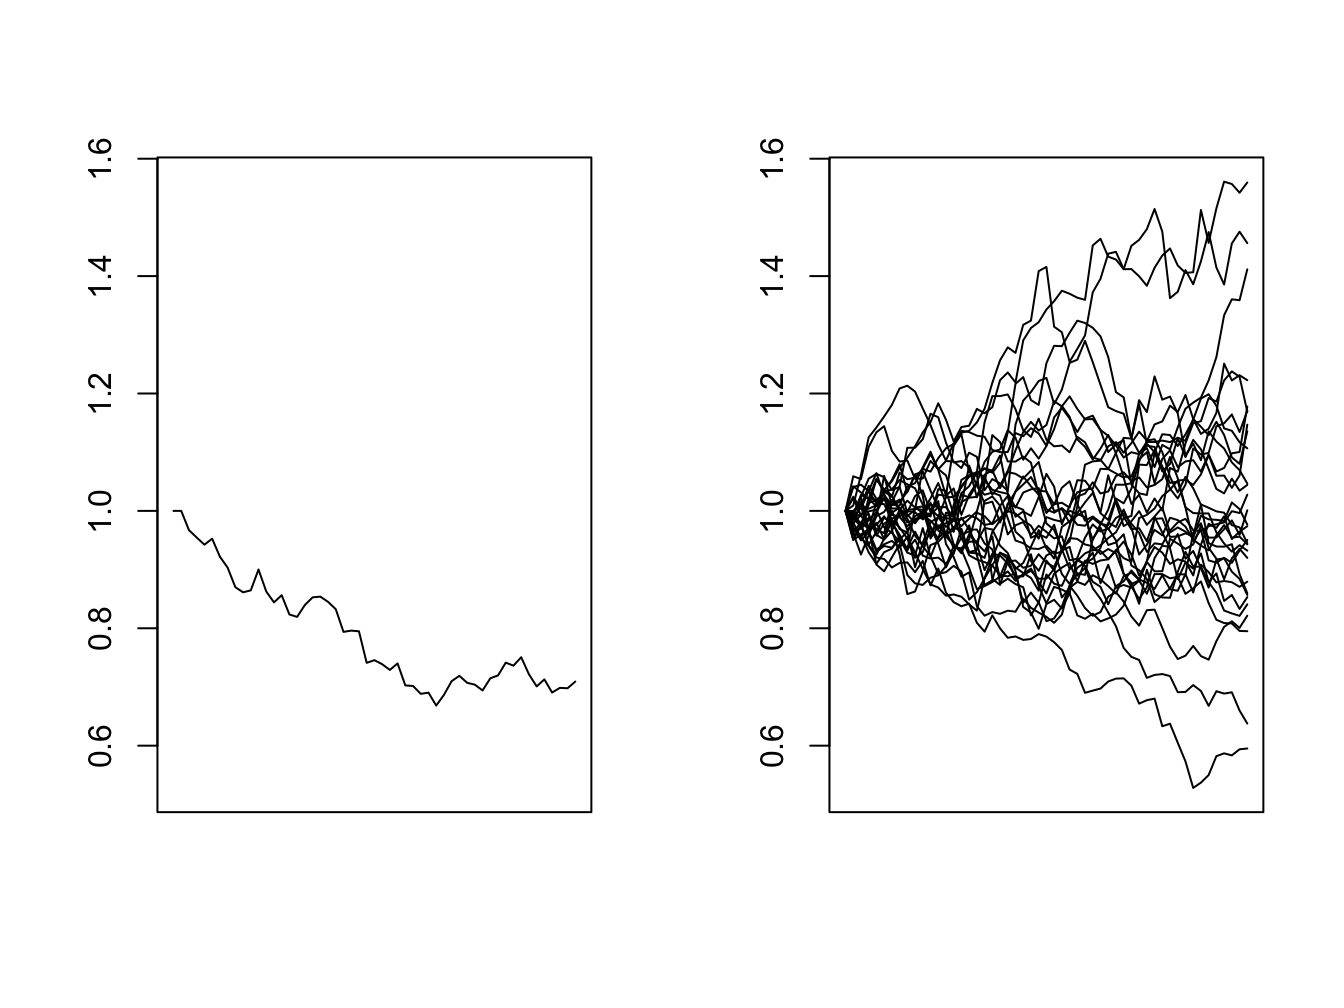
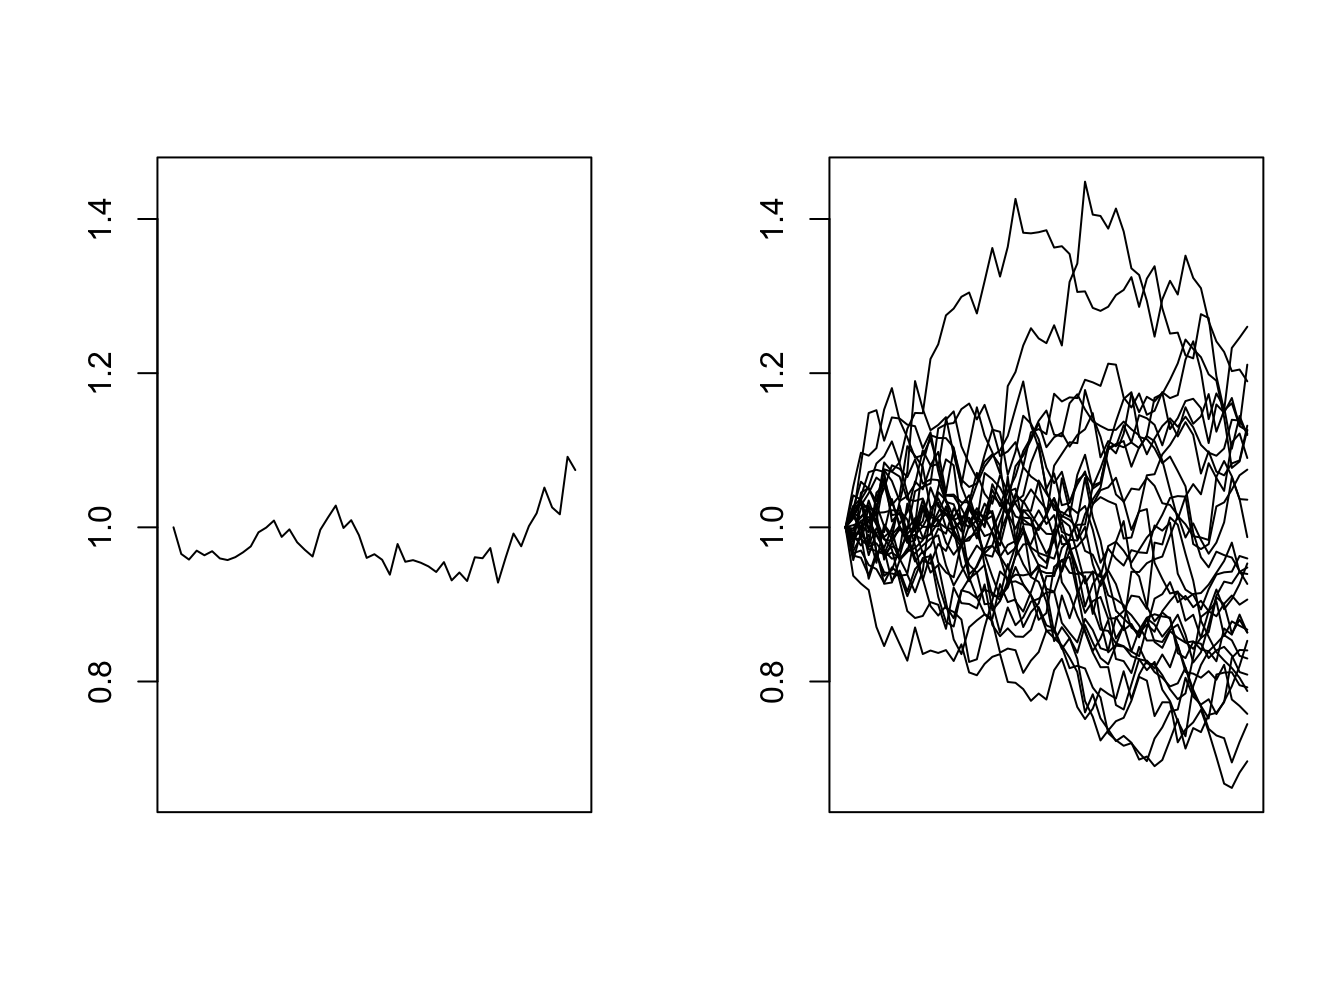
Update
error in table

diff --git a/docs/index.html b/docs/index.html
@@ -180,12 +180,12 @@ derived from public sources</a></li>
   sT
 }
 <span class="kw">cat</span>(<span class="st">&quot;Spot after 1 year: &quot;</span>, <span class="kw">aSampleSpotT</span>(<span class="dv">1</span>, <span class="fl">0.04</span>, <span class="fl">0.01</span>, <span class="dv">0</span>, <span class="fl">0.2</span>, <span class="dv">1</span>, <span class="dv">1</span>))</code></pre></div>
-<pre><code>## Spot after 1 year:  0.9985481</code></pre>
+<pre><code>## Spot after 1 year:  0.9034631</code></pre>
 <p>If required it is also possible to iterate over several consecutive periods to generate a path. For example, instead of sampling the spot after 1 year, we sample the spot after 1 week, then use the spot at week 1 to sample the spot at week 2, and so on until we arrive at the final observation as required. By repeatedly and independently generating many such paths we can visualise how the stock diffusion looks like.</p>
 <p>Assume the stock drifts at 0% per annum, i.e. <span class="math inline">\(r - d - q = 0\)</span>, and the stock has constant volatility of 20% per annum, we plot several paths or trajectories. The initial spot price is normalised to 1. Each trajectory below consist of 52 consecutive weekly observations. See Figure <a href="index.html#fig:manyPath-compute-traj">1.1</a>:</p>
 <div class="sourceCode"><pre class="sourceCode r"><code class="sourceCode r">nSteps =<span class="st"> </span><span class="dv">52</span> <span class="co"># weekly obs</span>
 aPath =<span class="st"> </span><span class="kw">rep</span>(<span class="dv">1</span>, nSteps<span class="dv">+1</span>) <span class="co"># initial spot is 1 </span>
-for (i in <span class="dv">2</span>:nSteps<span class="dv">+1</span>)
+for (i in <span class="dv">2</span>:(nSteps<span class="dv">+1</span>))
   aPath[i] =<span class="st"> </span><span class="kw">aSampleSpotT</span>(aPath[i<span class="dv">-1</span>], <span class="dv">0</span>, <span class="dv">0</span>, <span class="dv">0</span>, <span class="fl">0.2</span>, <span class="dv">1</span>/nSteps, <span class="dv">1</span>)</code></pre></div>
 <table>
 <caption><span id="tab:onePath-compute-table">Table 1.1: </span>First 4 weekly close</caption>
@@ -201,10 +201,10 @@ for (i in <span class="dv">2</span>:nSteps<span class="dv">+1</span>)
 <tbody>
 <tr class="odd">
 <td>Spot price</td>
-<td align="right">1</td>
-<td align="right">0.9671919</td>
-<td align="right">0.9546218</td>
-<td align="right">0.9424516</td>
+<td align="right">0.9654728</td>
+<td align="right">0.9581902</td>
+<td align="right">0.9697437</td>
+<td align="right">0.9637569</td>
 </tr>
 </tbody>
 </table>
@@ -302,26 +302,26 @@ for (i in <span class="dv">2</span>:(nSteps<span class="dv">+1</span>))
 <tr class="odd">
 <td>undl1</td>
 <td align="right">1</td>
-<td align="right">1.018330</td>
-<td align="right">0.9628113</td>
-<td align="right">0.9390624</td>
-<td align="right">0.9861838</td>
+<td align="right">0.9826109</td>
+<td align="right">0.9758952</td>
+<td align="right">0.9286175</td>
+<td align="right">0.8947027</td>
 </tr>
 <tr class="even">
 <td>undl2</td>
 <td align="right">1</td>
-<td align="right">1.018755</td>
-<td align="right">0.9639712</td>
-<td align="right">0.9508225</td>
-<td align="right">0.9904997</td>
+<td align="right">0.9950613</td>
+<td align="right">0.9939981</td>
+<td align="right">0.9802210</td>
+<td align="right">0.9563047</td>
 </tr>
 <tr class="odd">
 <td>undl3</td>
 <td align="right">1</td>
-<td align="right">1.027281</td>
-<td align="right">0.9619545</td>
-<td align="right">0.9584081</td>
-<td align="right">1.0028655</td>
+<td align="right">0.9798993</td>
+<td align="right">0.9889713</td>
+<td align="right">0.9603761</td>
+<td align="right">0.9390326</td>
 </tr>
 </tbody>
 </table>
@@ -379,7 +379,7 @@ for (i in <span class="dv">2</span>:<span class="kw">nrow</span>(corrTraj2))
 Figure 1.3: A basket of 3 underlyings (in grey) and the worst-of underlying (in blue)
 </p>
 </div>
-<p>A relevant question is why anyone would want to buy a call option that tracks the worst performance instead of the average performance, since the alternative is very likely to pay more at maturity. A sensitive answer is that if the investor has a bullish view on the entire basket, buying a worst-of call option is <em>a lot</em> more affordable than buying a call that is based on the average performance. As we’ll see in Chapter <a href="payoff.html#payoff">3</a>, this makes possible some interesting exotic payoffs.</p>
+<p>A relevant question is why anyone would want to buy a call option that tracks the worst performance instead of the average performance, since the alternative is very likely to pay more at maturity. The sensible answer is that if the investor has a bullish view on the entire basket, buying a worst-of call option is <em>a lot</em> more affordable than buying a call that is based on the average performance. As we’ll see in Chapter <a href="payoff.html#payoff">3</a>, this makes possible some interesting exotic payoffs.</p>
 </div>
 <div id="bestof" class="section level3">
 <h3><span class="header-section-number">1.1.2</span> Best-of</h3>
